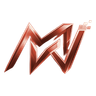
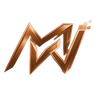
feat(marca): troca pro Preto + Creme + Laranja queimado
Rick vetou a graphite+bone+vermelho ao vivo; entra a opção 2 da lista
dele (personalidade mais comercial): fundo #0D0D0C, creme #F4F0E8,
laranja #C76B32 (hover #E08042). Claro = papel creme com laranja
escurecido #9E5222 (AA). GOTCHA de contraste: sobre o laranja o texto do
CTA é ESCURO (#1A0F06, 5.5:1) — branco reprovava (3.8:1); --accent-fg
inverteu junto. Lula/sol, share-card, OG, konami e logo (duotone
#3A1C08→#C76B32→creme) re-tingidos.

Claude-Session: https://claude.ai/code/session_01QSbcpXVHiqCgySsJyp7fqZ

diff --git a/src/app/globals.css b/src/app/globals.css
@@ -61,53 +61,55 @@
   /* ===== TEMA (variáveis semânticas) — MilWeb =====
      Default = DARK (:root). A classe .light no <html> troca pro claro.
 
-     Paleta GRAPHITE + BONE + VERMELHO QUEIMADO (decisão do Rick, 12/08):
-     saímos de vez do preto + azul elétrico + glow — a linguagem que hoje
-     grita "AI startup / SaaS genérico". Neutros quentes de estúdio
-     editorial; o vermelho queimado NÃO é efeito, é assinatura: aparece só
-     em ações e pequenos indicadores. Nada de gradiente, glow ou borda
-     colorida ambiente.
+     Paleta PRETO + CREME + LARANJA QUEIMADO (decisão do Rick, 12/08 —
+     substituiu a graphite+bone+vermelho da mesma noite, que ele vetou):
+     saímos de vez do preto + azul elétrico + glow — a linguagem que grita
+     "AI startup / SaaS genérico". Preto quente e creme de editorial, com
+     personalidade mais COMERCIAL; o laranja queimado NÃO é efeito, é
+     assinatura: aparece só em ações e pequenos indicadores. Nada de
+     gradiente, glow ou borda colorida ambiente.
 
      --warm existia como contraponto quente do azul; agora aponta pra
-     própria família do vermelho (eyebrows, números, destaques) — um site
+     própria família do laranja (eyebrows, números, destaques) — um site
      de um acento só, de propósito. */
   :root {
-    --bg: 17 17 15;             /* #11110F — graphite */
-    --surface: 25 25 23;        /* #191917 — charcoal */
-    --surface-2: 33 32 29;      /* #21201D */
-    --fg: 241 238 231;          /* #F1EEE7 — bone */
-    --fg-muted: 167 163 155;    /* #A7A39B — warm gray */
-    --fg-subtle: 140 136 128;   /* #8C8880 — 5.1:1 no graphite (AA) */
-    --line: 42 41 37;           /* #2A2925 — borda neutra, quase invisível */
-    --accent: 201 75 53;        /* #C94B35 — vermelho queimado */
-    --accent-soft: 224 100 75;  /* #E0644B — terracota (hover) */
-    --accent-deep: 168 61 42;   /* #A83D2A */
-    --accent-fg: 255 247 242;   /* texto sobre o vermelho — 4.6:1 (AA) */
-    --warm: 224 100 75;         /* terracota p/ texto pequeno no escuro */
-    --warm-loud: 232 122 96;    /* #E87A60 — texto grande */
-    --warm-fg: 32 12 8;
+    --bg: 13 13 12;             /* #0D0D0C — preto quente */
+    --surface: 23 22 20;        /* #171614 */
+    --surface-2: 31 30 27;      /* #1F1E1B */
+    --fg: 244 240 232;          /* #F4F0E8 — creme */
+    --fg-muted: 150 145 138;    /* #96918A */
+    --fg-subtle: 133 128 121;   /* #858079 — 4.7:1 no preto quente (AA) */
+    --line: 41 38 33;           /* #292621 — borda neutra, quase invisível */
+    --accent: 199 107 50;       /* #C76B32 — laranja queimado */
+    --accent-soft: 224 128 66;  /* #E08042 — hover */
+    --accent-deep: 166 86 38;   /* #A65626 */
+    --accent-fg: 26 15 6;       /* texto ESCURO sobre o laranja — 5.5:1
+                                   (branco só dava 3.8:1, reprova AA) */
+    --warm: 224 128 66;         /* laranja claro p/ texto pequeno no escuro */
+    --warm-loud: 236 148 88;    /* #EC9458 — texto grande */
+    --warm-fg: 26 15 6;
     color-scheme: dark;
   }
   .light {
-    /* O claro não é branco de UI: é PAPEL — bone como fundo, graphite como
-       tinta, o mesmo vermelho (escurecido pra AA) como assinatura. */
-    --bg: 244 241 234;          /* #F4F1EA — bone paper */
-    --surface: 251 249 244;     /* #FBF9F4 */
-    --surface-2: 234 230 221;   /* #EAE6DD */
-    --fg: 24 23 20;             /* #181714 — graphite ink */
-    --fg-muted: 82 79 72;       /* #524F48 */
-    --fg-subtle: 110 106 98;    /* #6E6A62 — 4.9:1 no bone (AA) */
-    --line: 209 204 193;        /* #D1CCC1 */
-    --accent: 168 61 42;        /* #A83D2A — 5.0:1 no bone (AA) */
-    --accent-soft: 143 50 34;   /* hover no claro escurece, não clareia */
-    --accent-deep: 122 42 28;
-    --accent-fg: 255 250 246;
+    /* O claro não é branco de UI: é PAPEL creme, tinta preta-quente, o
+       mesmo laranja (escurecido pra AA) como assinatura. */
+    --bg: 244 240 232;          /* #F4F0E8 — creme paper */
+    --surface: 250 248 242;     /* #FAF8F2 */
+    --surface-2: 234 229 219;   /* #EAE5DB */
+    --fg: 24 22 19;             /* #181613 — tinta */
+    --fg-muted: 84 80 73;       /* #545049 */
+    --fg-subtle: 110 105 97;    /* #6E6961 — 4.8:1 no creme (AA) */
+    --line: 210 203 191;        /* #D2CBBF */
+    --accent: 158 82 34;        /* #9E5222 — 4.7:1 no creme (AA) */
+    --accent-soft: 133 68 27;   /* hover no claro escurece, não clareia */
+    --accent-deep: 112 57 23;
+    --accent-fg: 255 250 243;
     /* DOIS tons no claro porque o mínimo de contraste depende do tamanho
        do texto: --warm serve o eyebrow (texto pequeno, precisa ~4.5:1) e
        --warm-loud os números gigantes do Stats (3:1 basta). */
-    --warm: 154 52 35;          /* #9A3423 — 5.5:1 (texto pequeno) */
-    --warm-loud: 190 70 48;     /* #BE4630 — 3.6:1 (só texto grande) */
-    --warm-fg: 255 250 246;
+    --warm: 148 74 28;          /* #944A1C — 5.1:1 (texto pequeno) */
+    --warm-loud: 187 96 40;     /* #BB6028 — 3.4:1 (só texto grande) */
+    --warm-fg: 255 250 243;
     color-scheme: light;
   }
 
@@ -290,7 +292,7 @@
     animation: hero-scroll-dot 2.2s ease-in-out infinite;
   }
 
-  /* Palavra-destaque do headline: vermelho queimado SÓLIDO. Era um
+  /* Palavra-destaque do headline: laranja queimado SÓLIDO. Era um
      gradiente azul→branco — gradiente em texto saiu da linguagem junto com
      o resto (paleta graphite+bone: a cor é assinatura, não efeito). A
      classe mantém o nome pra não tocar os usos espalhados. */

diff --git a/src/app/[lang]/opengraph-image.tsx b/src/app/[lang]/opengraph-image.tsx
@@ -24,7 +24,7 @@ export default async function Image() {
           display: 'flex',
           flexDirection: 'column',
           justifyContent: 'center',
-          backgroundColor: '#11110f',
+          backgroundColor: '#0d0d0c',
           backgroundImage:
             'none',
           padding: '80px 96px',
@@ -47,8 +47,8 @@ export default async function Image() {
               width: '64px',
               height: '64px',
               borderRadius: '18px',
-              backgroundColor: '#C94B35',
-              color: '#FFF7F2',
+              backgroundColor: '#C76B32',
+              color: '#1A0F06',
               fontSize: '40px',
               fontWeight: 800,
             }}
@@ -61,11 +61,11 @@ export default async function Image() {
               fontSize: '60px',
               fontWeight: 800,
               letterSpacing: '-0.02em',
-              color: '#F1EEE7',
+              color: '#F4F0E8',
             }}
           >
             Mil
-            <span style={{ color: '#C94B35' }}>Web</span>
+            <span style={{ color: '#C76B32' }}>Web</span>
           </div>
         </div>
 
@@ -78,7 +78,7 @@ export default async function Image() {
             lineHeight: 1.08,
             fontWeight: 800,
             letterSpacing: '-0.025em',
-            color: '#F1EEE7',
+            color: '#F4F0E8',
             maxWidth: '1000px',
           }}
         >
@@ -91,7 +91,7 @@ export default async function Image() {
             display: 'flex',
             marginTop: '32px',
             fontSize: '30px',
-            color: '#A7A39B',
+            color: '#96918A',
           }}
         >
           Sites, sistemas e SaaS sob medida
@@ -104,7 +104,7 @@ export default async function Image() {
             marginTop: '20px',
             fontSize: '26px',
             fontWeight: 600,
-            color: '#E0644B',
+            color: '#E08042',
           }}
         >
           Next.js · React · TypeScript · SaaS · Landing Pages

diff --git a/src/app/[lang]/projetos/[slug]/opengraph-image.tsx b/src/app/[lang]/projetos/[slug]/opengraph-image.tsx
@@ -32,7 +32,7 @@ export default async function Image({
           display: 'flex',
           flexDirection: 'column',
           justifyContent: 'space-between',
-          backgroundColor: '#11110f',
+          backgroundColor: '#0d0d0c',
           backgroundImage:
             'none',
           padding: '72px 88px',
@@ -49,15 +49,15 @@ export default async function Image({
               width: '52px',
               height: '52px',
               borderRadius: '14px',
-              backgroundColor: '#C94B35',
-              color: '#FFF7F2',
+              backgroundColor: '#C76B32',
+              color: '#1A0F06',
               fontSize: '32px',
               fontWeight: 800,
             }}
           >
             M
           </div>
-          <div style={{ display: 'flex', fontSize: '34px', fontWeight: 800, color: '#F1EEE7' }}>
+          <div style={{ display: 'flex', fontSize: '34px', fontWeight: 800, color: '#F4F0E8' }}>
             MilWeb
           </div>
         </div>
@@ -71,7 +71,7 @@ export default async function Image({
               lineHeight: 1.02,
               fontWeight: 800,
               letterSpacing: '-0.03em',
-              color: '#F1EEE7',
+              color: '#F4F0E8',
               maxWidth: '1000px',
             }}
           >
@@ -82,7 +82,7 @@ export default async function Image({
               display: 'flex',
               marginTop: '24px',
               fontSize: '32px',
-              color: '#E0644B',
+              color: '#E08042',
               maxWidth: '980px',
             }}
           >
@@ -91,7 +91,7 @@ export default async function Image({
         </div>
 
         {/* Footer line */}
-        <div style={{ display: 'flex', fontSize: '24px', fontWeight: 600, color: '#A7A39B' }}>
+        <div style={{ display: 'flex', fontSize: '24px', fontWeight: 600, color: '#96918A' }}>
           Case · MilWeb
         </div>
       </div>

diff --git a/src/components/dependency-calc.tsx b/src/components/dependency-calc.tsx
@@ -144,36 +144,36 @@ function drawShareCard(s: CalcStrings, loss: string, durationLabel: string, shar
 
   const sans = getComputedStyle(document.body).fontFamily || "sans-serif";
 
-  // fundo graphite sólido (os glows radiais azul/rosa saíram com a paleta
+  // fundo preto-quente sólido (os glows radiais azul/rosa saíram com a paleta
   // nova: a imagem de share segue a mesma linguagem editorial do site)
-  ctx.fillStyle = "#11110f";
+  ctx.fillStyle = "#0d0d0c";
   ctx.fillRect(0, 0, size, size);
 
   ctx.textAlign = "center";
 
   // eyebrow
-  ctx.fillStyle = "#c94b35";
+  ctx.fillStyle = "#c76b32";
   ctx.font = `700 30px ${sans}`;
   ctx.fillText("MILWEB · RAIO-X", size / 2, 190);
 
   // título
-  ctx.fillStyle = "#f1eee7";
+  ctx.fillStyle = "#f4f0e8";
   ctx.font = `700 58px ${sans}`;
   ctx.fillText(s.shareTitle1, size / 2, 330);
   ctx.fillText(s.shareTitle2, size / 2, 405);
 
   // valor
-  ctx.fillStyle = "#e0644b";
+  ctx.fillStyle = "#e08042";
   ctx.font = `800 132px ${sans}`;
   ctx.fillText(loss, size / 2, 580);
 
   // sub
-  ctx.fillStyle = "#a7a39b";
+  ctx.fillStyle = "#96918a";
   ctx.font = `400 36px ${sans}`;
   ctx.fillText(fill(s.shareSub, { duration: durationLabel, share }), size / 2, 665);
 
   // divisor
-  ctx.strokeStyle = "rgba(241,238,231,0.22)";
+  ctx.strokeStyle = "rgba(244,240,232,0.22)";
   ctx.lineWidth = 2;
   ctx.beginPath();
   ctx.moveTo(size / 2 - 180, 760);
@@ -181,7 +181,7 @@ function drawShareCard(s: CalcStrings, loss: string, durationLabel: string, shar
   ctx.stroke();
 
   // rodapé
-  ctx.fillStyle = "#c94b35";
+  ctx.fillStyle = "#c76b32";
   ctx.font = `700 40px ${sans}`;
   ctx.fillText(s.shareFooter, size / 2, 850);
 

diff --git a/src/components/SquidFollower/constants.ts b/src/components/SquidFollower/constants.ts
@@ -85,19 +85,19 @@ export const PHYSICS = {
   bubbleEvery: 1.6,
 } as const;
 
-/** Paleta (RGB 0-255) — vermelho queimado profundo → terracota, identidade
+/** Paleta (RGB 0-255) — laranja queimado profundo → terracota, identidade
  *  MilWeb (graphite+bone, 12/08). Atenção de manutenção: varreduras de cor
  *  por hex/`rgb(r g b)` NÃO acham este arquivo — a cor mora em array com
  *  vírgula (já passou batido na troca de paleta anterior). */
 export const PALETTE = {
-  headCore: [224, 100, 75],
-  headMid: [201, 75, 53],
-  headEdge: [42, 18, 12],
-  tentacleBase: [168, 61, 42],
-  tentacleTip: [232, 122, 96],
-  glow: [201, 75, 53],
-  eyeSclera: [241, 238, 231],
-  eyePupil: [17, 17, 15],
+  headCore: [224, 128, 66],
+  headMid: [199, 107, 50],
+  headEdge: [44, 22, 10],
+  tentacleBase: [166, 86, 38],
+  tentacleTip: [236, 148, 88],
+  glow: [199, 107, 50],
+  eyeSclera: [244, 240, 232],
+  eyePupil: [13, 13, 12],
 } as const;
 
 /**
@@ -149,7 +149,7 @@ export const BODIES = {
    *  Cores na paleta graphite+bone: sol terracota, planetas em bone,
    *  bronze e warm gray — os azuis/lilases eram resquício da paleta velha
    *  e apareciam como manchas azuis soltas no fundo novo. */
-  sun: { nx: 0.82, ny: 0.14, r: 200, alpha: 0.3, parallax: 0.015, rgb: [224, 100, 75] },
+  sun: { nx: 0.82, ny: 0.14, r: 200, alpha: 0.3, parallax: 0.015, rgb: [224, 128, 66] },
   planets: [
     { nx: 0.16, ny: 0.52, r: 88, alpha: 0.2, parallax: 0.05, rgb: [214, 202, 178], ring: 0 },
     { nx: 0.68, ny: 0.78, r: 58, alpha: 0.18, parallax: 0.08, rgb: [184, 160, 106], ring: 1.9 },

diff --git a/src/components/konami.tsx b/src/components/konami.tsx
@@ -10,7 +10,7 @@ const CODE = [
 
 // Confete na família da paleta graphite+bone (vermelhos, bone e bronze) —
 // o easter egg continua festivo sem reintroduzir o azul/roxo aposentado.
-const COLORS = ["#c94b35", "#e0644b", "#f1eee7", "#b8a06a", "#e87a60", "#a7a39b"];
+const COLORS = ["#c76b32", "#e08042", "#f4f0e8", "#b8a06a", "#ec9458", "#96918a"];
 
 /** Explosão de confete em canvas — sem dependências, remove-se sozinha. */
 function burstConfetti() {
@@ -86,7 +86,7 @@ export function Konami() {
   useEffect(() => {
     console.info(
       "%c🤖 Milo diz: oi, dev! Curioso, hein?\n%c↑ ↑ ↓ ↓ ← → ← → B A — experimenta.\n%cFeito pela MilWeb → https://milweb.com.br",
-      "color:#c94b35;font-size:14px;font-weight:bold",
+      "color:#c76b32;font-size:14px;font-weight:bold",
       "color:#a8a29a",
       "color:#78716a",
     );

diff --git a/src/components/SquidFollower/renderer.ts b/src/components/SquidFollower/renderer.ts
@@ -21,7 +21,7 @@ export class Renderer {
   private w = 0;
   private h = 0;
   /** Cor e intensidade do céu, resolvidas do tema (ver refreshTheme). */
-  private starColor: readonly number[] = [241, 238, 231];
+  private starColor: readonly number[] = [244, 240, 232];
   private starAlpha: number = STARFIELD.alphaDark;
   /** Sol e planetas só existem no escuro (ver BODIES). */
   private dark = true;
@@ -73,7 +73,7 @@ export class Renderer {
     this.starColor =
       parsed.length === 3 && parsed.every((n) => Number.isFinite(n))
         ? parsed
-        : [241, 238, 231]; // token ausente/malformado: não apaga o céu
+        : [244, 240, 232]; // token ausente/malformado: não apaga o céu
     this.starAlpha = light ? STARFIELD.alphaLight : STARFIELD.alphaDark;
     this.dark = !light;
   }

diff --git a/src/components/milo.tsx b/src/components/milo.tsx
@@ -24,7 +24,7 @@ export type MiloPose = "idle" | "think" | "shocked" | "happy" | "sleepy";
  * Cor da plumagem (asas, pés, penas do peito, bico) — cravada de propósito,
  * NÃO vinda de --accent-soft: o hover do claro é mais ESCURO que o accent
  * (cai no meio do gradiente do corpo) e as asas sumiam contra o corpo.
- * Bone levemente tostado: contrasta com o corpo vermelho-queimado nos dois
+ * Bone levemente tostado: contrasta com o corpo laranja-queimado nos dois
  * temas (paleta graphite+bone — Milo trocou o azul junto com o site).
  */
 const PLUMA = "#eae2d2";

diff --git a/src/components/deliverables.tsx b/src/components/deliverables.tsx
@@ -32,7 +32,7 @@ const ICONS: Record<string, LucideIcon> = {
 /** Tratamento único e neutro pra TODOS os cards (era um arco-íris de
  * emerald/amber/violet/rose/cyan por índice no mobile — exatamente a
  * estética "SaaS genérico" que a paleta graphite+bone eliminou; na nova
- * linguagem a cor é assinatura do vermelho, não diferenciador de card). */
+ * linguagem a cor é assinatura do laranja, não diferenciador de card). */
 const CARD_ACCENT = [
   { icon: "text-fg-muted", bg: "bg-surface-2", ring: "ring-line/40", border: "border-line/60" },
 ];

diff --git a/src/components/projects.tsx b/src/components/projects.tsx
@@ -31,7 +31,7 @@ export const FILTER_LABELS: Record<Project["category"], Localized> = {
  * no sistema/SaaS (o tipo de projeto que a MilWeb mais quer vender). Era
  * uma cor por categoria (amber/violet/sky/emerald) — arco-íris de card é a
  * estética que a paleta graphite+bone aposentou; o indicador pontual em
- * vermelho queimado é a nova linguagem. */
+ * laranja queimado é a nova linguagem. */
 const CATEGORY_ACCENT: Record<Project["category"], string> = {
   "landing-essencial": "border-l-line",
   "landing-premium": "border-l-line",
